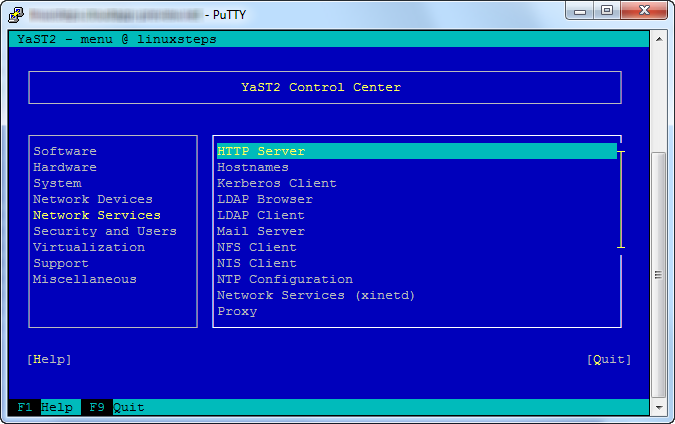
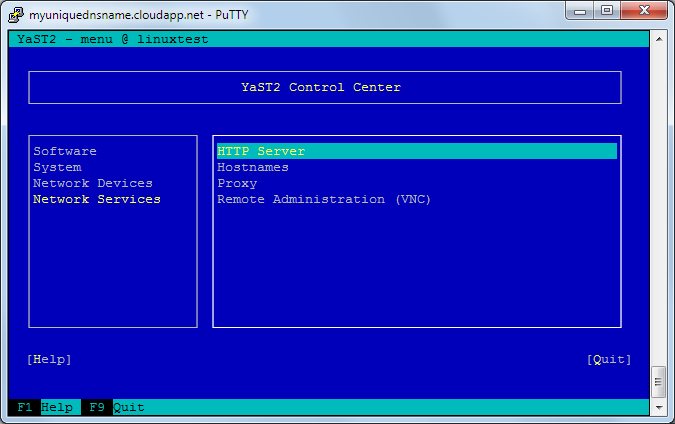
updated to work with latest version of openSuse

diff --git a/HOL.md b/HOL.md
@@ -167,10 +167,12 @@ In this task, you will install and configure an Apache HTTP Server and MySQL Dat
 	````Linux
 	zypper install yast2
 	zypper install yast2-ncurses
+	zypper install yast2-ncurses-pkg
 	zypper install yast2-qt
 	zypper install yast2-gtk
 	zypper install yast2-packager
 	zypper install yast2-network
+	zypper install yast2-http-server
 	````
 
 1. To install the prerequisites for Drupal you will use **Yast2** to automatically install Apache and MySQL with their dependencies. In the terminal, execute **Yast2**. This will open the **Yast2** application.
@@ -191,23 +193,29 @@ In this task, you will install and configure an Apache HTTP Server and MySQL Dat
 
 	_Selecting the Patterns Filter_
 
-1. Scroll down the options until you find **Web and LAMP Server**. Press **ENTER** to select it and press **ALT+A** to start the installation. Press **ENTER** when prompted for confirmation.
+1. Scroll down the options until you find **Web and LAMP Server**. Press **ENTER** to select it, then press **ALT+T**, select **All listed packages...** and **Install All**.
 
 	![Installing Web and LAMP Server](images/installing-web-and-lamp-server.png?raw=true)
 
 	_Installing Web and LAMP Server_
 
-1. Once the installation is completed, the program will take you back to the main menu. Enter again the **Software Management**. Type **php5-gd** to search for this package and hit **ENTER** to select it. Press **ALT+A** to start the installation. Repeat the steps to install **php5-mbstring**.
+1. Press **ALT+A** to start the installation. Press **ENTER** when prompted for confirmation.
+
+1. Once the installation is completed, the program will take you back to the main menu. Enter again the **Software Management**. Type **php5-json** to search for this package and hit **ENTER** to select it. Press **ALT+A** to start the installation.
 
 	![Installing PHP extensions](images/installing-php-extensions.png?raw=true)
 
 	_Installing PHP extensions_
 
-1. In the main menu, press the left arrow key and select **Network Services**. Press the right arrow key, select **HTTP Server** and press **ENTER**.
+1. Back to the main menu, press the left arrow key and select **Network Services**. Press the right arrow key, select **HTTP Server** and press **ENTER**.
 
 	![Configuring HTTP Server](images/configuring-http-server.png?raw=true)
 	
 	_Configuring HTTP Server_
+
+1. Follow the Wizard steps to complete the configuration using the default values.
+
+1. Select **Network Services**. Press the right arrow key and select **HTTP Server** again.
 
 1. Press **ALT+E** to enable the HTTP services and then press **ALT+F** to confirm the changes.
 
@@ -315,21 +323,11 @@ In this task, you will install and configure a Drupal portal on your Windows Azu
 	![Configuring a Drupal account](images/configuring-a-drupal-account.png?raw=true)
 	 
 	_Configuring a Drupal account_
- 
-1. Open the Virtual Machines dashboard in the Windows Azure Portal and click the **DNS Name** link to verify that the Drupal home page loads. 
+
+1. Click the **Visit your Web site** link to verify that the Drupal home page loads. 
 
 	![Drupal CMS home page](images/drupal-cms-home-page.png?raw=true)
 	 
 	_Drupal CMS home page_
- 
-1. In Putty, execute the following commands to revert the writing and execution permission assigned to install and configure Drupal. You are ready to use Drupal in a Linux Virtual Machine running on Windows Azure.
-	
-	<!--mark: 1,2-->
-	````Bash
-	sudo chmod go-w sites/default/settings.php
-	sudo chmod go-w sites/default
-	````	
-
-
 	
 ---
